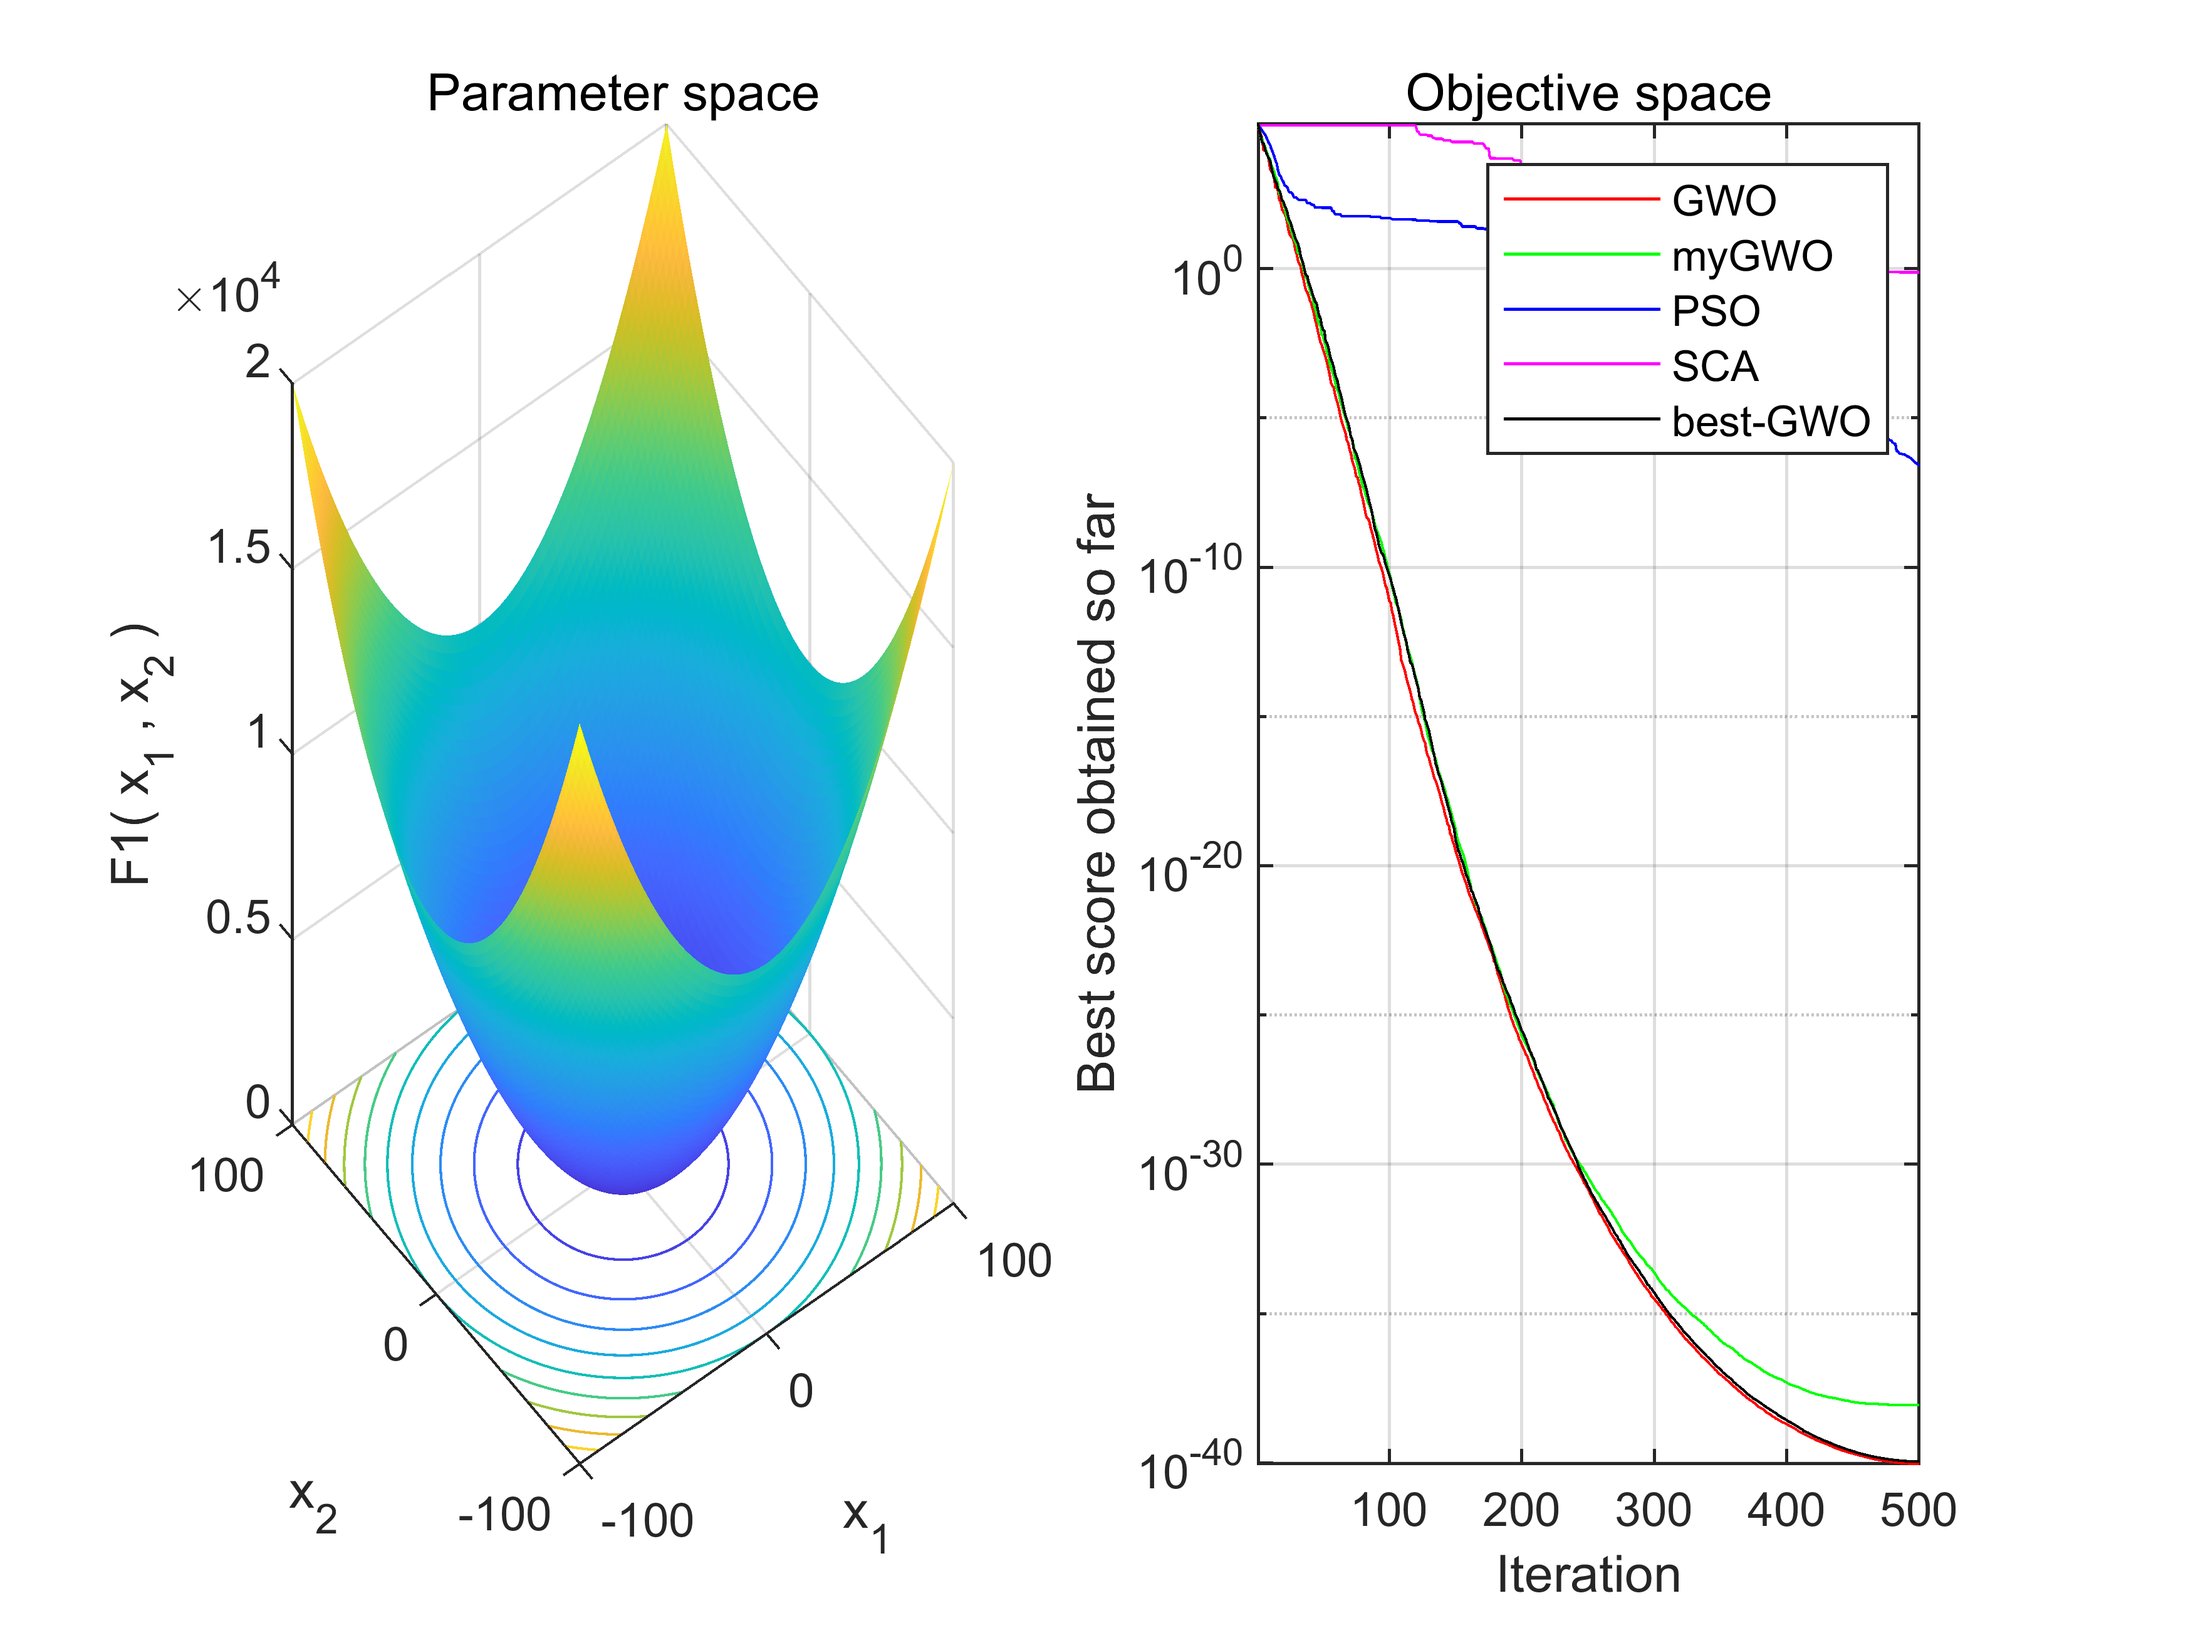
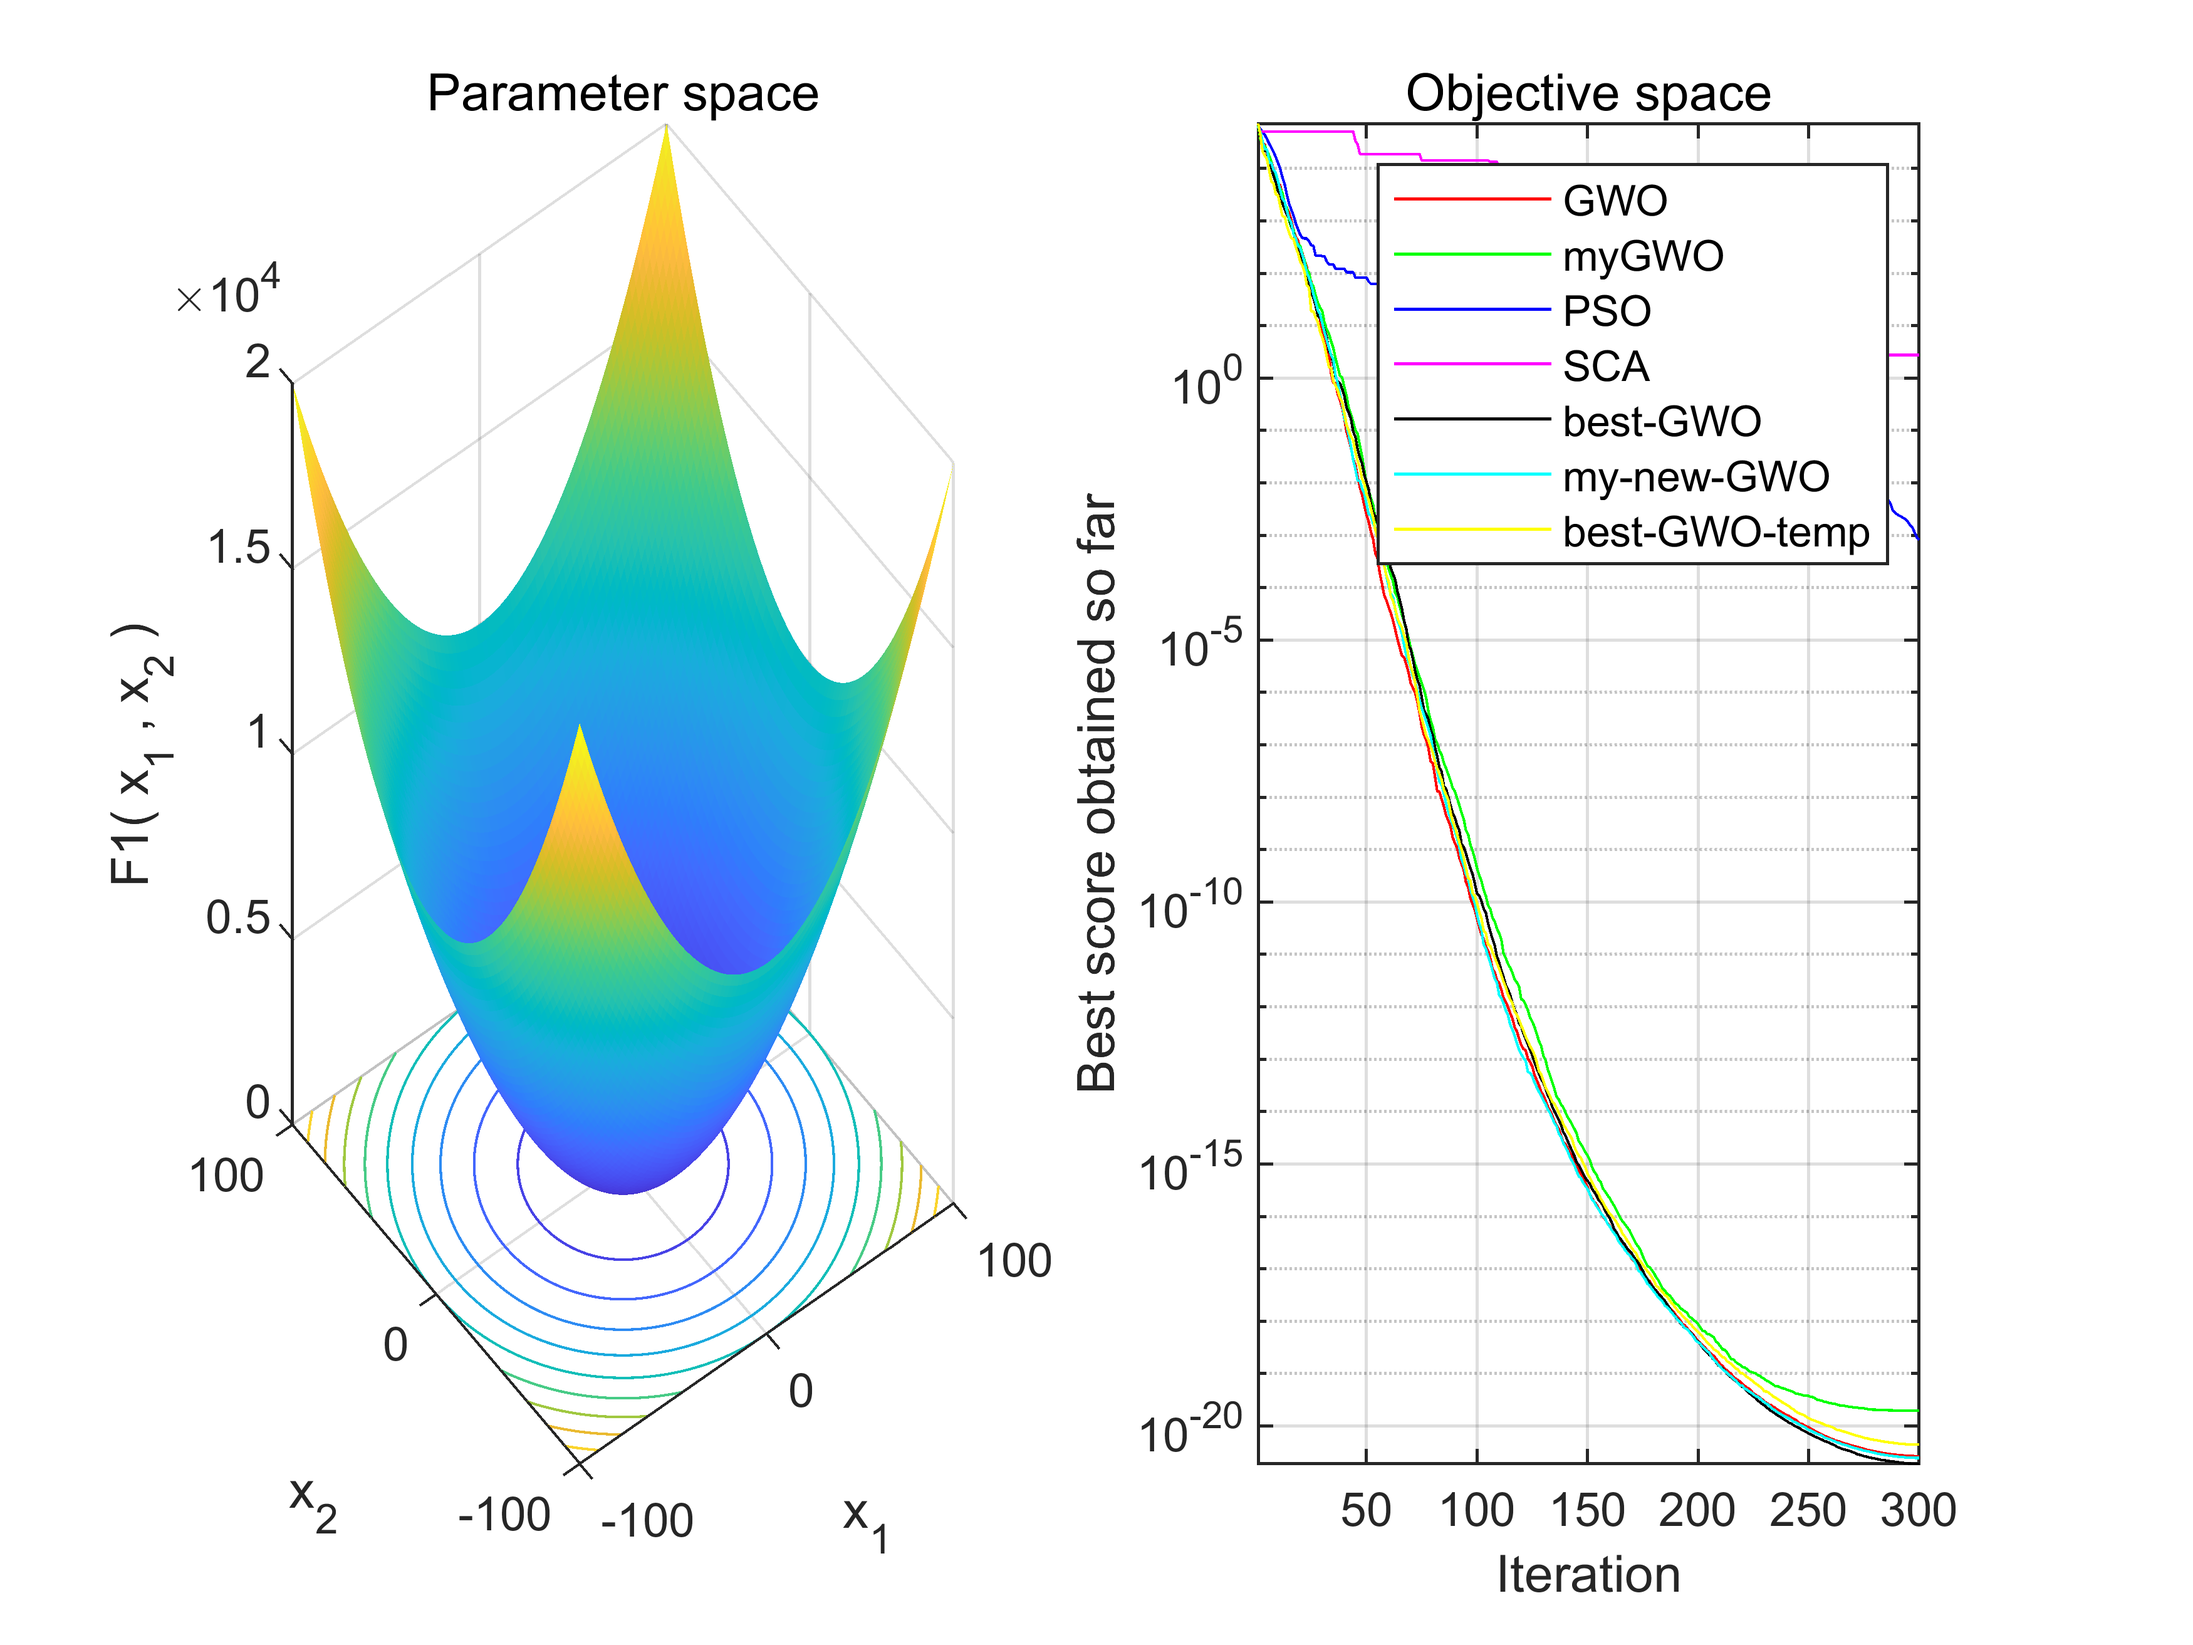
新增对比，并修复黏菌算法的小bug

diff --git a/GWO_original/my_new_GWO.m b/GWO_original/my_new_GWO.m
@@ -1,0 +1,119 @@
+function [Alpha_score,Alpha_pos,Convergence_curve]=my_new_GWO(SearchAgents_no,Max_iter,lb,ub,dim,fobj)
+
+% initialize alpha, beta, and delta_pos
+Alpha_pos=zeros(1,dim);
+Alpha_score=inf; %change this to -inf for maximization problems
+
+Beta_pos=zeros(1,dim);
+Beta_score=inf; %change this to -inf for maximization problems
+
+Delta_pos=zeros(1,dim);
+Delta_score=inf; %change this to -inf for maximization problems
+
+%Initialize the positions of search agents
+Positions=initialization(SearchAgents_no,dim,ub,lb);
+
+Convergence_curve=zeros(1,Max_iter);
+
+l=0;% Loop counter
+
+% Main loop
+while l<Max_iter
+    for i=1:size(Positions,1)  
+        
+       % Return back the search agents that go beyond the boundaries of the search space
+        Flag4ub=Positions(i,:)>ub;
+        Flag4lb=Positions(i,:)<lb;
+        Positions(i,:)=(Positions(i,:).*(~(Flag4ub+Flag4lb)))+ub.*Flag4ub+lb.*Flag4lb;               
+        
+        % Calculate objective function for each search agent
+        fitness=fobj(Positions(i,:));
+        
+        % Update Alpha, Beta, and Delta
+        if fitness<Alpha_score 
+            Alpha_score=fitness; % Update alpha
+            Alpha_pos=Positions(i,:);
+        end
+        
+        if fitness>Alpha_score && fitness<Beta_score 
+            Beta_score=fitness; % Update beta
+            Beta_pos=Positions(i,:);
+        end
+        
+        if fitness>Alpha_score && fitness>Beta_score && fitness<Delta_score 
+            Delta_score=fitness; % Update delta
+            Delta_pos=Positions(i,:);
+        end
+    end
+    
+    
+    a=2-l*((2)/Max_iter); % a decreases linearly fron 2 to 0
+    
+    % Update the Position of search agents including omegas
+    for i=1:size(Positions,1) % wolves
+        for j=1:size(Positions,2) % dim
+                       
+            r1=rand(); % r1 is a random number in [0,1]
+            r2=rand(); % r2 is a random number in [0,1]
+            
+            A1=2*a*r1-a; % Equation (3.3)
+            C1=2*r2; % Equation (3.4)
+            
+            D_alpha=abs(C1*Alpha_pos(j)-Positions(i,j)); % Equation (3.5)-part 1
+            X1=Alpha_pos(j)-A1*D_alpha; % Equation (3.6)-part 1
+                       
+            r1=rand();
+            r2=rand();
+            
+            A2=2*a*r1-a; % Equation (3.3)
+            C2=2*r2; % Equation (3.4)
+            
+            D_beta=abs(C2*Beta_pos(j)-Positions(i,j)); % Equation (3.5)-part 2
+            X2=Beta_pos(j)-A2*D_beta; % Equation (3.6)-part 2       
+            
+            r1=rand();
+            r2=rand(); 
+            
+            A3=2*a*r1-a; % Equation (3.3)
+            C3=2*r2; % Equation (3.4)
+            
+            D_delta=abs(C3*Delta_pos(j)-Positions(i,j)); % Equation (3.5)-part 3
+            X3=Delta_pos(j)-A3*D_delta; % Equation (3.5)-part 3             
+            
+            Positions(i,j)=(X1+X2+X3)/3;% Equation (3.7)
+            
+        end
+    end
+
+    %% Myxomycetes information exchange
+    old_position = Positions;
+    for i = 1:SearchAgents_no % position to be changed
+        %for j = 1:SearchAgents_no % neighbor selected
+        j = randi([1,size(Positions,1)]);
+        diff = old_position(i) - old_position(j);
+        trust_score = abs(fobj(old_position(i,:)) - fobj(old_position(j,:))) / (norm(diff,2)+0.01);
+        if (fobj(old_position(i,:)) - fobj(old_position(j,:)) > 0)
+            Positions(i) = Positions(i) - 0.1 * (1 - exp(-trust_score)) * diff;
+        else
+            Positions(i) = Positions(i) + 0.1 * (1 - exp(-trust_score)) * diff;
+        end
+        %end
+        for j = 1:dim % prevent error solution
+            if Positions(i,j) > ub
+                Positions(i,j) = ub;
+            end
+            if Positions(i,j) < lb
+                Positions(i,j) = lb;
+            end
+        end
+        if fobj(Positions(i,:)) > fobj(old_position(i,:))
+            Positions(i,:) = old_position(i,:);
+        end
+    end
+
+    %disp(Alpha_pos);
+
+    %%
+    l=l+1;    
+    Convergence_curve(l)=Alpha_score;
+end

diff --git a/GWO_original/my_new_GWO_temp.m b/GWO_original/my_new_GWO_temp.m
@@ -37,7 +37,7 @@
 %___________________________________________________________________%
 
 % Improved Grey Wolf Optimizer (I-GWO)
-function [Alpha_score,Alpha_pos,Convergence_curve]=IGWO2(dim,N,Max_iter,lb,ub,fobj)
+function [Alpha_score,Alpha_pos,Convergence_curve]=my_new_GWO_temp(dim,N,Max_iter,lb,ub,fobj)
 
 
 lu = [lb .* ones(1, dim); ub .* ones(1, dim)];
@@ -141,11 +141,26 @@ while iter < Max_iter
     for t=1:N
         neighbor(t,:) = (dist_Position(t,:)<=radius(t,t));
         [~,Idx] = find(neighbor(t,:)==1);                   % Equation (11)             
-        random_Idx_neighbor = randi(size(Idx,2),1,dim);
-        
+%         random_Idx_neighbor = randi(size(Idx,2),1,dim);
+        rand_temp_1 = size(Idx,2);
+        rand_temp_2 = randi(N);
+        if(rand_temp_1 == 0)
+            X_DLH(t,:) = Positions(t,:);
+            continue;
+        end
+        diff = Positions(rand_temp_2,:) - Positions(Idx(rand_temp_1),:);
+        trust_score = abs(fobj(Positions(rand_temp_2,:)) - fobj(Positions(Idx(rand_temp_1),:))) / (norm(diff,2)+0.01);
+        rand_choose = (1 - exp(-trust_score/10));
+        rand_choose = rand_choose / 8;
         for d=1:dim
-            X_DLH(t,d) = Positions(t,d) + rand .*(Positions(Idx(random_Idx_neighbor(d)),d)...
-                - Positions(r1(t),d));                      % Equation (12)
+            if (fobj(Positions(rand_temp_2,:)) > fobj(Positions(Idx(rand_temp_1),:)))
+                X_DLH(t,d) = Positions(t,d) - rand_choose .*(Positions(rand_temp_1,d)...
+                - Positions(rand_temp_2,d));                      % Equation (12)
+            else
+                X_DLH(t,d) = Positions(t,d) + rand_choose .*(Positions(rand_temp_1,d)...
+                - Positions(rand_temp_2,d));                      % Equation (12)
+            end
+            
         end
         X_DLH(t,:) = boundConstraint(X_DLH(t,:), Positions(t,:), lu);
         Fit_DLH(t) = fobj(X_DLH(t,:));

diff --git a/GWO_original/main.m b/GWO_original/main.m
@@ -37,10 +37,10 @@ for kw = 1:22
     if kw == 17
         continue
     end
-    SearchAgents_no=100; % Number of search agents
+    SearchAgents_no=75; % Number of search agents
     Function_name=strcat('F', num2str(kw)); % Name of the test function that can be from F1 to F23 (Table 1,2,3 in the paper)
 
-    Max_iteration=500; % Maximum numbef of iterations
+    Max_iteration=300; % Maximum numbef of iterations
     
     % Load details of the selected benchmark function
     [lb,ub,dim,fobj]=Get_Functions_details(Function_name);
@@ -50,6 +50,8 @@ for kw = 1:22
     PSO_cg_curve=PSO(SearchAgents_no,Max_iteration,lb,ub,dim,fobj); % run PSO to compare to results
     [Best_score_SCA,Best_pos_SCA,cg_curve_SCA]=SCA(SearchAgents_no,Max_iteration,lb,ub,dim,fobj);
     [my_Best_score2,my_Best_pos2,my_GWO_cg_curve2]=IGWO2(dim,SearchAgents_no,Max_iteration,lb,ub,fobj);
+    [my_Best_score3,my_Best_pos3,my_GWO_cg_curve3]=my_new_GWO(SearchAgents_no,Max_iteration,lb,ub,dim,fobj);
+    [my_Best_score4,my_Best_pos4,my_GWO_cg_curve4]=my_new_GWO_temp(dim,SearchAgents_no,Max_iteration,lb,ub,fobj);
     figure('Position',[500 500 660 290])
     fig = figure(Visible="off");
     % Draw search space
@@ -68,6 +70,8 @@ for kw = 1:22
     semilogy(PSO_cg_curve, 'Color', 'b');
     semilogy(cg_curve_SCA, 'Color', 'magenta')
     semilogy(my_GWO_cg_curve2, 'Color', 'black');
+    semilogy(my_GWO_cg_curve3, 'Color', 'cyan');
+    semilogy(my_GWO_cg_curve4, 'Color', 'yellow');
     title('Objective space')
     xlabel('Iteration');
     ylabel('Best score obtained so far');
@@ -75,7 +79,7 @@ for kw = 1:22
     axis tight
     grid on
     box on
-    legend('GWO', 'myGWO', 'PSO', 'SCA', 'best-GWO')
+    legend('GWO', 'myGWO', 'PSO', 'SCA', 'best-GWO', 'my-new-GWO', 'best-GWO-temp');
     asdas = num2str(kw);
     disp(asdas)
     file_name = strcat('C:\Users\zlaa\Documents\MATLAB\GWO_original\all_fun\', num2str(kw), '.png');
